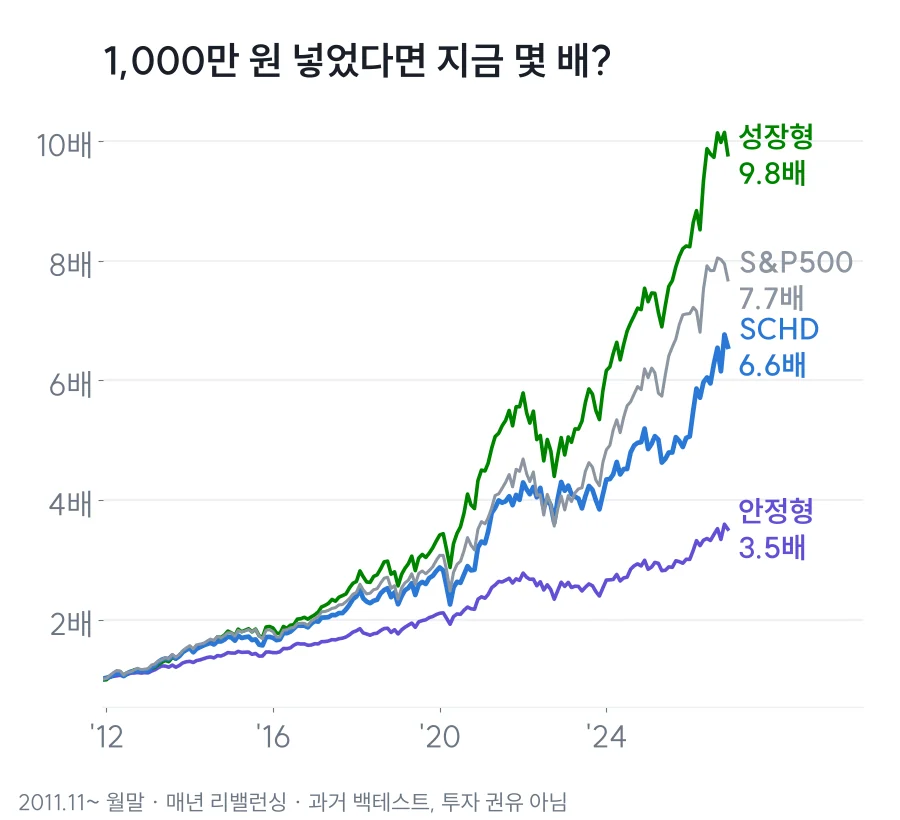
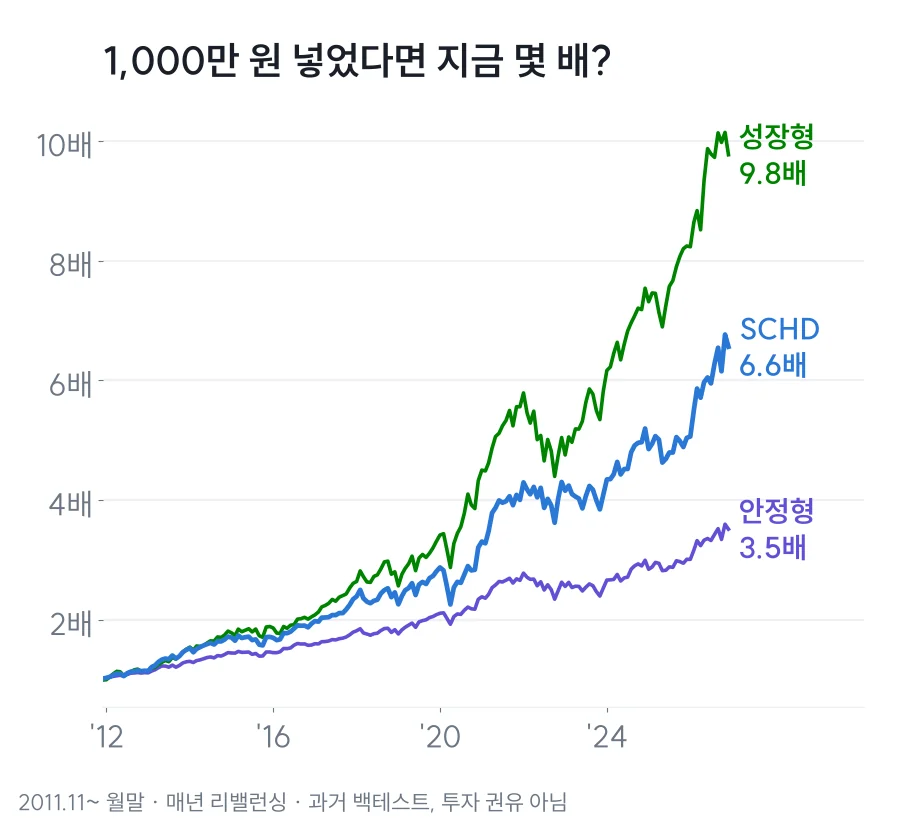
S&P500 비교를 판단에 필요한 곳만 남기도록 축소
Claude-Session: https://claude.ai/code/session_01DBGKHsc3dH2WGfRK1tXguA

diff --git a/wordpress-plan/etf/schd_v2.html b/wordpress-plan/etf/schd_v2.html
@@ -73,23 +73,23 @@ a{color:var(--accent);text-decoration:none}
 <div class="cat">배당 ETF · 미국상장</div>
 <h1>SCHD 배당률·배당금·단점 총정리 (2026) | 적립식 30년 투자하면 얼마?</h1>
 <div class="meta">직장인 백호 · 2026.11.19 · 데이터 기준일 2026.11.18</div>
-<img class="hero" src="out/schd-thumbnail.webp" alt="SCHD 썸네일. 배당률 3.0%, 배당 성장 연 11%, 30년 적립 중앙값 19.8억">
+<img class="hero" src="out/schd-thumbnail.webp" alt="SCHD 썸네일. 배당률 3.0%, 배당 성장 연 11%, 13년 연속 배당 증가">
 
 <div class="kpis">
   <div class="kpi"><b>3.0%</b><span>배당률 (최근 1년)</span><i>S&amp;P500 1.0%</i></div>
-  <div class="kpi"><b>연 11%</b><span>배당 성장 (13년 연속 증가)</span><i>S&amp;P500 연 6.8%</i></div>
+  <div class="kpi"><b>연 11%</b><span>배당 성장 (13년 연속 증가)</span></div>
   <div class="kpi"><b>13.4%</b><span>연평균 수익률</span><i>S&amp;P500 14.6%</i></div>
-  <div class="kpi"><b style="color:var(--c-red)">-33.4%</b><span>최대 낙폭</span><i>S&amp;P500 -33.7%</i></div>
+  <div class="kpi"><b style="color:var(--c-red)">-33.4%</b><span>최대 낙폭</span></div>
 </div>
 
-<p class="note" style="margin-top:16px">회색 숫자는 같은 기간 S&amp;P500(SPY)이에요. 이 블로그의 모든 숫자는 S&amp;P500과 비교합니다.</p>
+<p class="note" style="margin-top:16px">회색 숫자는 미국 대표 지수 S&amp;P500의 같은 기간 값이에요. 잘한 건지 비교하는 기준으로 보시면 돼요.</p>
 <p style="margin-top:20px">SCHD는 배당 ETF 하면 가장 먼저 나오는 이름이에요.</p>
 <p>저도 아직 사지 않았고, 사기 전에 <mark>15년 치 데이터를 직접 계산</mark>해 봤습니다. 좋은 점보다 단점을 먼저 알고 싶었거든요.</p>
 
 <div class="tldr"><b>이 글의 핵심 3줄</b><ol>
 <li>배당률 <span class="num">3.0%</span>로 S&amp;P500의 <span class="num">3배</span>, 배당은 13년 연속 증가</li>
 <li>대신 총수익은 S&amp;P500보다 연 <span class="neg">1.2%p</span> 낮고, 최근 <span class="neg">3년 연속</span> 뒤처짐</li>
-<li>매달 50만 원씩 30년이면 중앙값 <span class="num">19.8억</span> (S&amp;P500 25.7억)</li>
+<li>매달 50만 원씩 30년이면 중앙값 <span class="num">19.8억</span>, 낸 돈의 약 11배</li>
 </ol></div>
 
 <h2>SCHD 배당금과 배당일</h2>
@@ -119,10 +119,10 @@ a{color:var(--accent);text-decoration:none}
 <h2>SCHD 적립식 30년 투자하면 얼마?</h2>
 <figure><img src="out/m-schd-dca-30y.webp" alt="SCHD 매달 50만 원 30년 적립식 1,000회 시뮬레이션. SCHD 중앙값 19.8억, S&amp;P500 중앙값 25.7억" loading="lazy"></figure>
 <p class="how"><b>분석 방법 · 몬테카를로 시뮬레이션</b>SCHD의 과거 월간 수익률 180여 개를 무작위로 다시 뽑아 30년(360개월)을 이어 붙이는 걸 1,000번 반복했어요. 미래를 한 줄로 맞히는 대신 "좋은 경우부터 나쁜 경우까지" 범위를 보여 줍니다.</p>
-<div class="tbl"><table><thead><tr><th>30년 뒤 (원금 1.8억)</th><th class="c-schd">SCHD</th><th class="c-spy">S&amp;P500</th></tr></thead><tbody>
-<tr><td>하위 5% (운이 나쁠 때)</td><td>7.6억</td><td class="c-spy">10.0억</td></tr>
-<tr><td class="k">중앙값</td><td class="k c-schd">19.8억</td><td class="k c-spy">25.7억</td></tr>
-<tr><td>상위 5% (운이 좋을 때)</td><td>52.5억</td><td class="c-spy">71.2억</td></tr>
+<div class="tbl"><table><thead><tr><th>30년 뒤 (낸 원금 1.8억)</th><th>평가액</th></tr></thead><tbody>
+<tr><td>하위 5% (운이 나쁠 때)</td><td>7.6억</td></tr>
+<tr><td class="k">중앙값</td><td class="k c-schd">19.8억</td></tr>
+<tr><td>상위 5% (운이 좋을 때)</td><td>52.5억</td></tr>
 </tbody></table></div>
 <p>가운데 결과가 <span class="num">19.8억</span>으로, 낸 돈의 <span class="num">약 11배</span>예요. 같은 방식으로 S&amp;P500을 돌리면 <span class="c-spy"><b>25.7억</b></span>이라, <mark>총자산 불리기만 보면 S&amp;P500이 더 컸어요.</mark> 다만 그 사이 한 번은 <span class="neg">25~40% 하락</span>을 겪는다고 보는 게 맞아요.</p>
 <p class="note">지난 15년이 특히 좋았던 기간이라 낙관적인 숫자예요. 연 8%로 보수적으로 잡으면 약 7.5억입니다. 세금·물가는 빠져 있어요.</p>
@@ -131,13 +131,12 @@ a{color:var(--accent);text-decoration:none}
 <figure><img src="out/m-schd-correlation.webp" alt="SCHD와 S&amp;P500 0.82, 비트코인 0.25, 금 0.12, 장기채 0.08 상관계수" loading="lazy"></figure>
 <p class="how"><b>분석 방법 · 상관계수</b>두 자산이 같은 달에 같은 방향으로 움직였는지를 0~1 사이 숫자로 나타냈어요. 1에 가까우면 함께 오르내리고, 0에 가까우면 서로 상관없이 움직여요. 2014년부터 146개월 데이터로 계산했습니다.</p>
 <p>SCHD는 S&amp;P500과 <span class="num">0.82</span>로 거의 함께 움직이고, 금(<span class="num">0.12</span>)·장기채(<span class="num">0.08</span>)와는 따로 움직여요. 배당 ETF라고 <mark>하락장 방패는 아니라는 뜻</mark>이에요.</p>
-<figure><img src="out/m-schd-portfolio.webp" alt="성장형 9.8배, S&amp;P500 7.7배, SCHD 단독 6.6배, 안정형 3.5배 백테스트" loading="lazy"></figure>
+<figure><img src="out/m-schd-portfolio.webp" alt="성장형 9.8배, SCHD 단독 6.6배, 안정형 3.5배 백테스트" loading="lazy"></figure>
 <p class="how"><b>분석 방법 · 백테스트</b>2011년 11월에 1,000만 원을 넣고, 매년 말 원래 비율로 다시 맞췄다고 가정해 과거 데이터로 계산했어요.</p>
 <div class="tbl"><table><thead><tr><th>예시 조합 (2011.11~)</th><th>연평균</th><th>최대 낙폭</th></tr></thead><tbody>
 <tr><td class="k c-safe">안정형 SCHD 60 + 채권 40</td><td>8.7%</td><td>-15.7%</td></tr>
 <tr><td class="k c-schd">SCHD 단독</td><td>13.3%</td><td>-21.5%</td></tr>
 <tr><td class="k c-grow">성장형 SCHD 50 + QQQ 50</td><td>16.3%</td><td>-24.1%</td></tr>
-<tr><td class="k c-spy">비교: S&amp;P500</td><td>14.3%</td><td>-23.9%</td></tr>
 </tbody></table></div>
 <p>저는 <span class="c-grow"><b>성장형</b></span>이 가장 눈에 들어왔어요. 연평균 <span class="num">16.3%</span>로 S&amp;P500(<span class="c-spy"><b>14.3%</b></span>)보다도 높았고, SCHD가 약했던 해를 QQQ가 메워 줬거든요.</p>
 <div class="baekho"><img src="out/baekho_face.webp" alt=""><div><b>백호 한마디</b>SCHD는 혼자보다 성장주 옆에 둘 때 더 빛나.</div></div>
@@ -146,10 +145,10 @@ a{color:var(--accent);text-decoration:none}
 <figure><img src="out/m-schd-growth-drawdown.webp" alt="SCHD 상장 이후 6.7배 성장, 코로나 때 -33% 하락 후 6개월 만에 회복" loading="lazy"></figure>
 <p class="how"><b>읽는 법</b>위는 상장 때 넣은 돈이 몇 배가 됐는지, 아래는 직전 최고점보다 얼마나 떨어졌는지(최대 낙폭)를 보여 줘요.</p>
 <div class="tbl"><table><tbody>
-<tr><td>상장 이후 연평균</td><td class="k c-schd">13.4% <span class="note c-spy">(S&amp;P500 14.6%)</span></td></tr>
-<tr><td>최근 10년 연평균</td><td>13.1% <span class="note c-spy">(S&amp;P500 14.6%)</span></td></tr>
+<tr><td>상장 이후 연평균</td><td class="k c-schd">13.4%</td></tr>
+<tr><td>최근 10년 연평균</td><td>13.1%</td></tr>
 <tr><td>원화 환산 연평균</td><td>14.7%</td></tr>
-<tr><td>최대 낙폭</td><td><span class="neg">-33.4%</span> <span class="note c-spy">(S&amp;P500 -33.7%)</span></td></tr>
+<tr><td>최대 낙폭</td><td><span class="neg">-33.4%</span> <span class="note">(6개월 만에 회복)</span></td></tr>
 </tbody></table></div>
 <p>상장 때 넣은 1,000만 원은 지금 <span class="num">약 6,700만 원</span>이 됐어요. S&amp;P500이었다면 <span class="c-spy"><b>약 7,800만 원</b></span>이에요. 대신 SCHD는 그중 더 많은 부분을 배당으로 받았어요.</p>
 
@@ -159,7 +158,6 @@ a{color:var(--accent);text-decoration:none}
 <tr><td class="k c-schd">SCHD</td><td class="k">12.1%</td><td class="k">3.0%</td><td class="k">-33.4%</td></tr>
 <tr><td class="k c-dgro">DGRO</td><td>12.4%</td><td>1.9%</td><td>-35.1%</td></tr>
 <tr><td class="k c-vym">VYM</td><td>10.7%</td><td>2.3%</td><td>-35.2%</td></tr>
-<tr><td class="k c-spy">S&amp;P500</td><td>13.2%</td><td>-</td><td>-33.7%</td></tr>
 </tbody></table></div>
 <p>수익률은 비슷하지만, SCHD가 <mark>배당률이 가장 높고 덜 빠졌어요.</mark></p>
 <p class="note">연금저축·ISA로 같은 지수에 투자하는 방법은 「SCHD vs TIGER 미국배당다우존스」 글에서 따로 정리할게요.</p>

diff --git a/wordpress-plan/etf/charts_mobile.py b/wordpress-plan/etf/charts_mobile.py
@@ -85,7 +85,7 @@ lab = []
 for k, c, nm in [("안정형 (SCHD 60 + IEF 40)", C["안정형"], "안정형"), ("성장형 (SCHD 50 + QQQ 50)", C["성장형"], "성장형"), ("SCHD 단독", C["SCHD"], "SCHD")]:
     s = PF[k]; ax.plot(s.index, s, color=c, lw=3.4 if nm == "SCHD" else 2.6); lab.append((s.iloc[-1], nm, c))
 spm = rd("SPY").resample("ME").last(); spm = spm[(spm.index >= PF.index[0] - pd.Timedelta(days=40)) & (spm.index <= PF.index[-1])]
-spv = spm / spm.iloc[0] * 1000 * (PF.iloc[0, 0] / 1000); ax.plot(spv.index, spv, color=C["SPY"], lw=2.2); lab.append((spv.iloc[-1], "S&P500", C["SPY"]))
+# S&P500 선은 독자 혼란을 줄이려 뺌(본문 한 줄로 비교)
 lab.sort(); yy = [l[0] for l in lab]
 for k in range(1, len(yy)): yy[k] = max(yy[k], yy[k - 1] + 900)
 lab = [(y, nm, c, v0) for (v0, nm, c), y in zip(lab, yy)]

diff --git a/wordpress-plan/STRATEGY.md b/wordpress-plan/STRATEGY.md
@@ -118,6 +118,6 @@
 - 썸네일 칩 3개 = 글의 핵심 약속: SCHD는 배당률 3.0% / 배당 성장 연 11% / 30년 적립 중앙값 19.8억 (총보수·분기·30년 같은 일반 정보 대신).
 - 썸네일 생성기: `brand/scripts/thumbnail.py` make_thumb(티커, 라벨, 한 줄, 칩3, 포즈, 파일)
 - 미리보기 v2: wordpress-plan/etf/schd_v2.html (약 2,800자, H2 9개). 워드프레스 반영은 사이트 CSS 적용 후.
-- **비교 기준은 모든 글에서 S&P500(SPY)** (사용자 확정 2026-11-19): 숫자 카드마다 S&P500 값 회색 병기, 수익률·낙폭·배당률·배당성장·30년 시뮬레이션·조합표에 S&P500 행/선 추가. 차트에서 S&P500은 회색(#8b95a1), 표 이름도 같은 색.
+- **비교 기준은 모든 글에서 S&P500(SPY)** (사용자 확정 2026-11-19). 단, 판단을 바꾸는 곳에만 넣는다(독자 점검 후 축소): 숫자 카드는 배당률·연평균 2개만 회색 병기, 핵심 3줄 중 2줄, 배당률 '몇 배', 단점 연도별 차트, 30년 시뮬 차트 선+한 문장, 누적 '1,000만 원이면' 한 문장, 비교 차트 선. 거의 같은 값(낙폭 -33.4 vs -33.7)·표마다 반복·조합 차트 선은 넣지 않음. 차트에서 S&P500은 회색(#8b95a1), 표 이름도 같은 색.
 - 분석 차트 아래 '분석 방법' 회색 설명 1~2줄(몬테카를로·상관계수·백테스트·낙폭). 핵심 숫자는 파란 굵게, 나쁜 숫자는 빨강 굵게. 표의 이름 글자색 = 차트 선 색.
 - 목차는 검색 답(배당) → 나만의 분석(단점·30년·섞기) → 일반 정보(수익률·비교·기본정보) 순. 차트는 휴대폰용 m- 버전(가로 900px, 글자 22~34px), charts_mobile.py.
